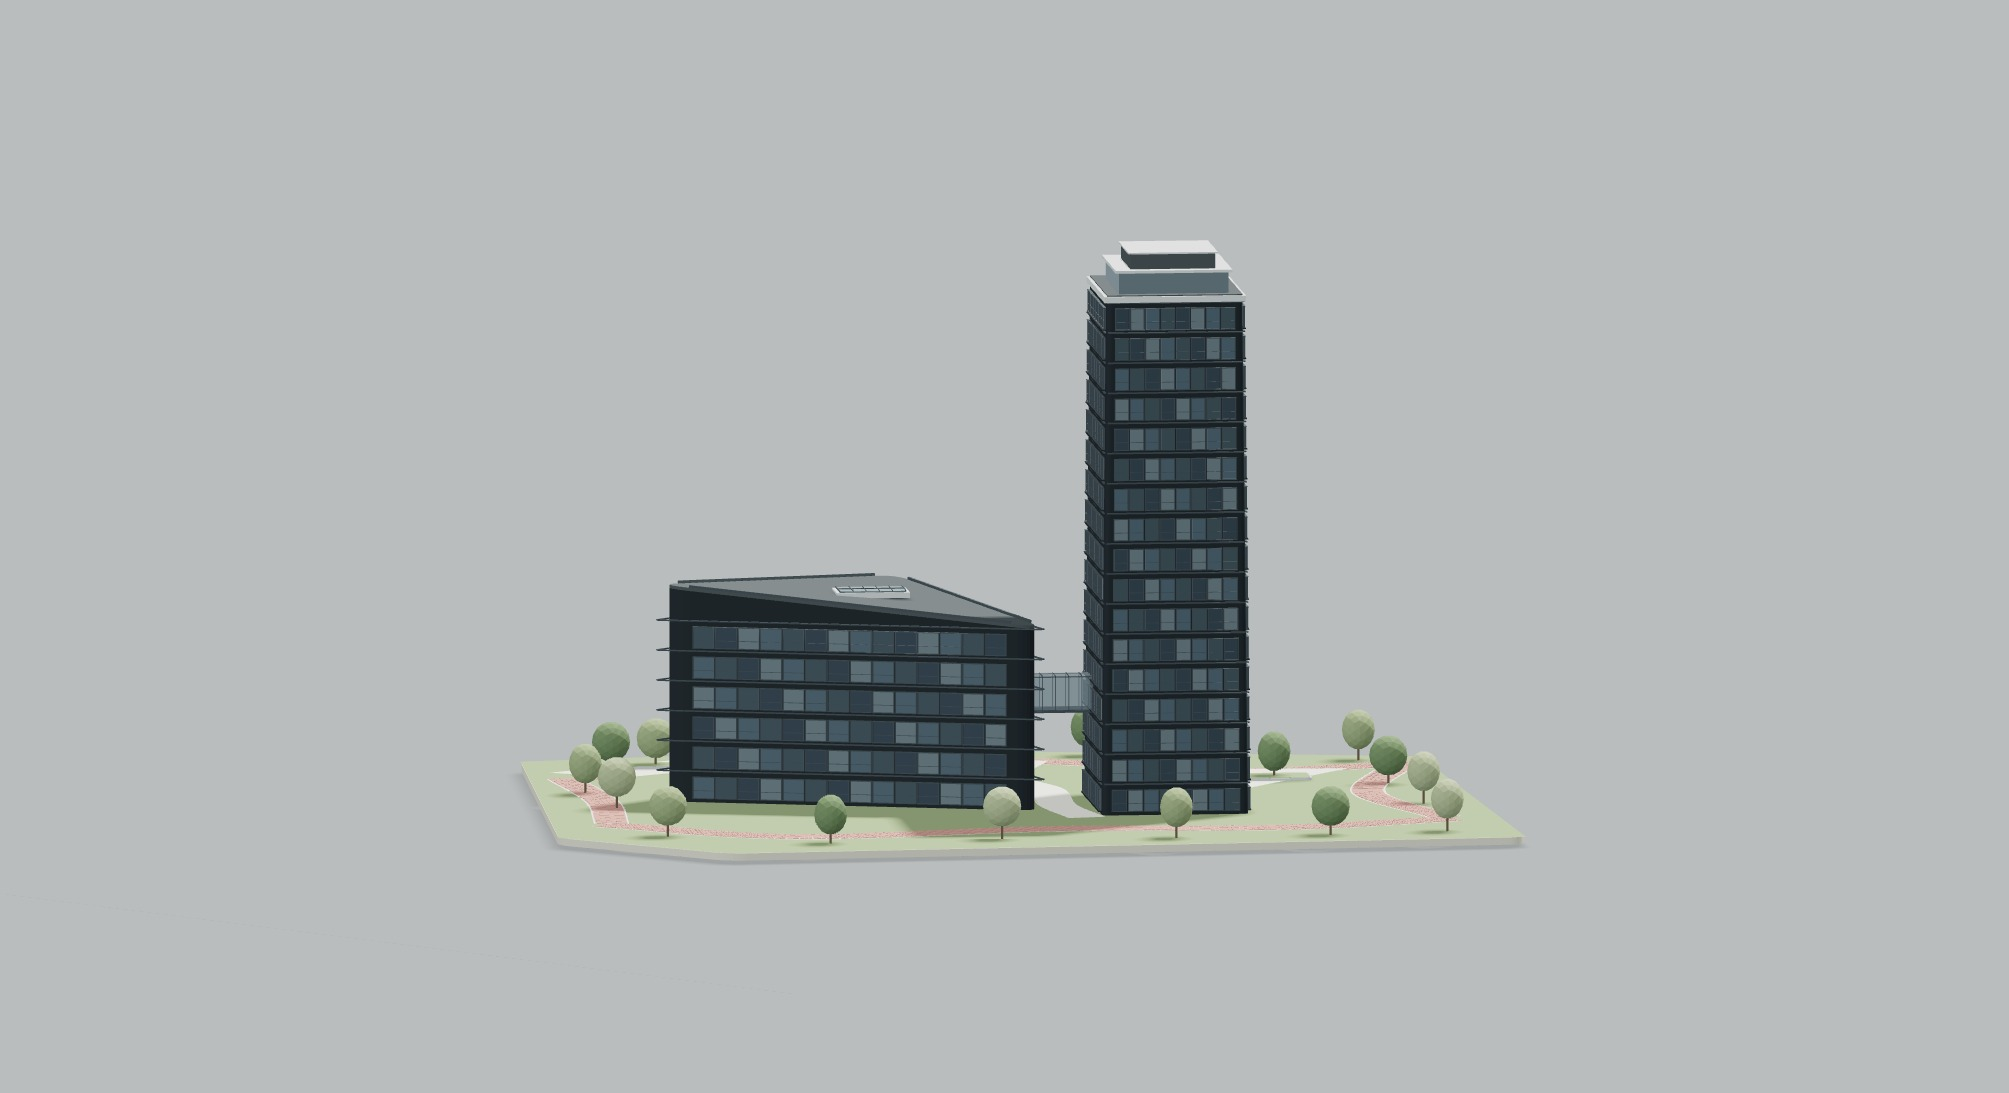
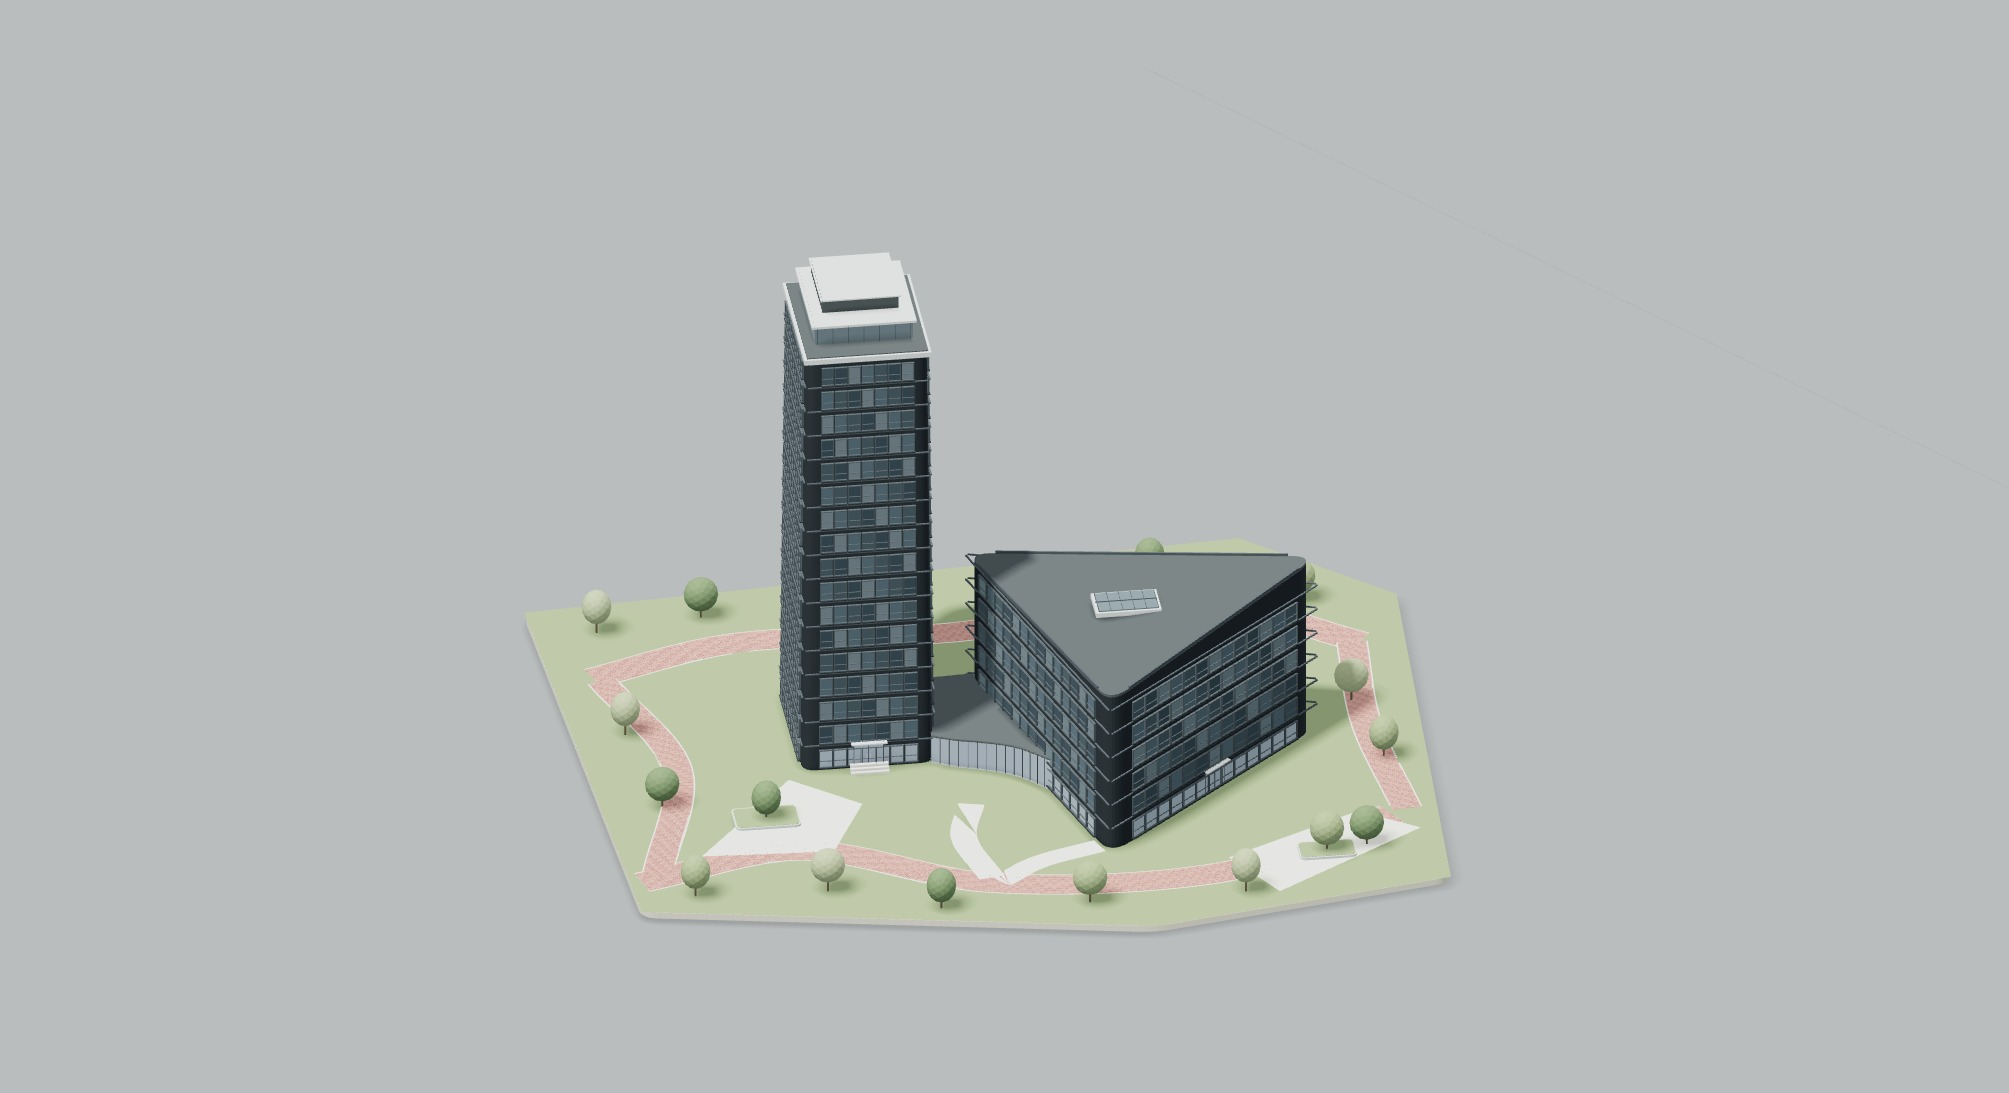
Correct connector to ground-level glazed volume from user photos

Changed region(s): [[0.2778, 0.2177, 0.7407, 0.8399]]

diff --git a/assets/ryabinovaya-project.js b/assets/ryabinovaya-project.js
@@ -45,22 +45,32 @@
   const tower=[[-25,-17],[-9,-17],[-9,3],[-25,3]];
   const wedge=[[-3,-12],[38,1],[9,28]];
   const towerH=56.1,lowH=19.8,roofY=x=>lowH+.49+.09*(x+3);
-  volume(tower,.14,towerH,M.body,.7,0,false,true);
+  volume(tower,.14,towerH,M.body,1.8,0,false,true);
   volume(wedge,.14,lowH,M.body,3.5,.09);volume(wedge,lowH+.14,.35,M.roof,3.5,.09,true);
-  // Verified elevated glazed link: open passage below, no invented ground lobby/supports.
-  const bridge={x0:-9.35,x1:.75,z:-4,bottom:10.2,top:14.1,width:3.2};
-  const bridgeGlass=GranVisual.glass(mat(0x81939b,{transparent:true,opacity:.5,depthWrite:false,roughness:.24}));
-  const bx=(bridge.x0+bridge.x1)/2,bl=bridge.x1-bridge.x0,by=(bridge.bottom+bridge.top)/2;
-  box(M.frame,bx,bridge.bottom,-4,bl,.22,3.3,0,false);
-  box(bridgeGlass,bx,bridge.top,-4,bl,.10,3.2,0,false);
-  for(const side of [-1,1]){
-   const z=-4+side*1.6;box(bridgeGlass,bx,by,z,bl,3.7,.08,0,false);
-   for(let x=bridge.x0;x<=bridge.x1+.01;x+=bl/7)box(M.frame,x,by,z,.07,3.9,.15,0,false);
-   for(const y of [bridge.bottom+.17,bridge.top-.07])box(M.frame,bx,y,z,bl,.09,.16,0,false);
+  // Supplied photos supersede the earlier incorrect browser-agent description.
+  // A ground-level glazed connecting volume with a broad, gently sloped grey roof.
+  const bridgeGlass=GranVisual.glass(mat(0x9aa8b5,{roughness:.32,metalness:.08}));
+  const roofHeight=(x,z)=>3.6+.035*(x+9.3)+.01*(z+11);
+  const facadeCurve=new T.CatmullRomCurve3([[-9.35,3],[-6.6,4.5],[-3.7,5.6],[.2,7.6],[4.2,11.8]].map(([x,z])=>new T.Vector3(x,0,z)));
+  const front=facadeCurve.getPoints(40).map(p=>[p.x,p.z]);
+  const connectorPlan=[[-9.45,-11],[-2.4,-11],[4.2,11.8],...front.slice(0,-1).reverse()];
+  volume(connectorPlan,.10,.12,M.pave,.16);
+  const roofG=new T.ExtrudeGeometry(shape(connectorPlan,.16),{depth:.18,bevelEnabled:false,curveSegments:8});roofG.rotateX(-Math.PI/2);
+  const rp=roofG.attributes.position;for(let i=0;i<rp.count;i++)rp.setY(i,rp.getY(i)+roofHeight(rp.getX(i),rp.getZ(i)));rp.needsUpdate=true;roofG.computeVertexNormals();geo.push(roofG);
+  const connectorRoof=new T.Mesh(roofG,M.roof);connectorRoof.castShadow=connectorRoof.receiveShadow=true;vpm.add(connectorRoof);
+  function glazedWall(points){
+   for(let i=0;i<points.length-1;i++){
+    const a=points[i],b=points[i+1],dx=b[0]-a[0],dz=b[1]-a[1],L=Math.hypot(dx,dz),n=Math.max(1,Math.round(L/1.05)),angle=-Math.atan2(dz,dx);
+    for(let k=0;k<n;k++){const t=(k+.5)/n,x=a[0]+dx*t,z=a[1]+dz*t,h=roofHeight(x,z)-.34;box(bridgeGlass,x,.24+h/2,z,L/n-.055,h,.10,angle,false);}
+    for(let k=0;k<=n;k++){const t=k/n,x=a[0]+dx*t,z=a[1]+dz*t,h=roofHeight(x,z)-.22;box(M.frame,x,.22+h/2,z,.055,h,.18,angle,false);}
+    beam(M.roof,[a[0],roofHeight(...a)+.05,a[1]],[b[0],roofHeight(...b)+.05,b[1]],.21,.18);
+    beam(M.cap,[a[0],.23,a[1]],[b[0],.23,b[1]],.15,.18);
+   }
   }
-  for(let x=bridge.x0;x<=bridge.x1+.01;x+=bl/7)box(M.frame,x,bridge.top,-4,.07,.12,3.3,0,false);
-  // A paved passage remains open under the bridge; entrances belong to each volume.
-  ribbon([[-7,-20],[-5,-9],[-5,6],[-2,17],[-6,32]],4.2,M.pave,.2);
+  // Glazed bays follow the curved courtyard elevation; both ends enter the buildings.
+  glazedWall(facadeCurve.getSpacedPoints(14).map(p=>[p.x,p.z]));
+  glazedWall([[-9.45,-11],[-2.4,-11]]);
+  ribbon([[-6,14],[-8,22],[-6,32]],3.2,M.pave,.2);
   function entrance(x,z,angle){const nx=Math.sin(angle),nz=Math.cos(angle),tx=Math.cos(angle),tz=-Math.sin(angle);
    box(bridgeGlass,x,2.1,z,3.6,3,.10,angle,false);
    for(const side of [-1,0,1])box(M.frame,x+tx*side*1.8,2.1,z+tz*side*1.8,.07,3.15,.22,angle,false);
@@ -74,7 +84,7 @@
     for(let f=0;f<floors;f++)for(let j=0;j<n;j++){
      const t=(margin+(j+.5)*(L-2*margin)/n)/L;let cx=a[0]+dx*t,cz=a[1]+dz*t;const cy=y0+f*3.3+1.15,scale=points===tower?1-.07*cy/towerH:1,pitch=(L-2*margin)/n*scale,ww=pitch-.25,wh=2.25;
      if(points===tower){cx=(cx+17)*scale-17;cz=(cz+7)*scale-7;}
-     box(glass[(f*3+j+i)%glass.length],cx+nx*.08,cy,cz+nz*.08,ww,wh,.12,angle,false);
+     box(f===0?bridgeGlass:glass[(f*3+j+i)%glass.length],cx+nx*.08,cy,cz+nz*.08,ww,wh,.12,angle,false);
      // Physical aluminium jambs, recessed glass, projecting sill and transom.
      for(const side of [-1,1]){
       const sx=cx+dx/L*side*(ww/2+.04),sz=cz+dz/L*side*(ww/2+.04);
@@ -87,7 +97,7 @@
     for(let f=1;f<=floors;f++){const scale=points===tower?1-.07*(f*3.3)/towerH:1;box(M.frame,((a[0]+b[0])/2+17)*scale-17+nx*.12,f*3.3+.25,((a[1]+b[1])/2+7)*scale-7+nz*.12,L*scale-.3,.14,.2,angle,false);}
    });
   }
-  facade(tower,17,1.7,.6,.9);facade(wedge,6,2.4,.6,4);
+  facade(tower,17,1.7,.6,1.9);facade(wedge,6,2.4,.6,4);
   // Stepped light crown, parapets and the visible low-building roof feature.
   // Layered crown with glazing, rather than the previous solid white cap.
   box(M.cap,-17,towerH+.6,-7,15.5,.65,19.2);box(M.roof,-17,towerH+1,-7,14.8,.12,18.5,0,false);
@@ -108,7 +118,7 @@
   trees.forEach(([x,z],i)=>{box(M.trunk,x,1.1,z,.22,2.2,.22);foliage.push([x,3.2+(i%3)*.2,z,1.8+(i%2)*.3,2.2,1.8,0,true]);});
   function instances(G,m,list){const mesh=new T.InstancedMesh(G,m,list.length);list.forEach((a,i)=>{dummy.position.set(a[0],a[1],a[2]);dummy.rotation.set(0,a[6],0);dummy.scale.set(a[3],a[4],a[5]);dummy.updateMatrix();mesh.setMatrixAt(i,dummy.matrix);});mesh.castShadow=list.some(a=>a[7]);mesh.receiveShadow=true;vpm.add(mesh);}
   batches.forEach((list,m)=>instances(unit,m,list));leaf.forEach((m,i)=>instances(crown,m,foliage.filter((_,j)=>j%3===i)));
-  root.userData.geo=geo;root.userData.materials=materials;root.userData.reference={name:'Рябиновая',estimated:true,source:'guest view, 1/3 models loaded',mainMasses:2,wedge:true,heightRatio:towerH/lowH,bridge:{bottom:bridge.bottom,top:bridge.top,columns:0},slopedRoof:true,plantedIslands:2,entranceStairs:true,paverGeometry:true};
+  root.userData.geo=geo;root.userData.materials=materials;root.userData.reference={name:'Рябиновая',estimated:true,source:'user supplied photos for connector; other dimensions estimated',mainMasses:2,wedge:true,heightRatio:towerH/lowH,connector:{type:'ground-glazed',base:.1,roofMin:3.6,roofMax:4.3,curvedFront:true,roofOpaque:true},slopedRoof:true,plantedIslands:2,entranceStairs:true,paverGeometry:true};
   return{root,g,radius:Math.max(Math.hypot(105,92)/2,(towerH+5.6)*.95),maxH:towerH+5.6};
  }
  global.GranRyabinovaya={build};

diff --git a/review/ryabinovaya-correction/README.md b/review/ryabinovaya-correction/README.md
@@ -1,21 +1,15 @@
-# Уточнение «Рябиновой»: переход, кровли, благоустройство
+# Наземный переход по скриншотам пользователя
 
-Повторно осмотрена только исходная гостевая ссылка пользователя через TinyFish, с приближением и сменой ракурсов. Сетевые файлы и исходная геометрия не получены. Отчёт осмотра: https://agent.tinyfish.ai/runs/b26a3db4-01a8-4362-8ddd-c098c6407a4f . Сам отчёт не заменяет размерные чертежи и не подтверждает точность реконструкции.
+Два предоставленных пользователем изображения заменяют прежний недостоверный текстовый отчёт браузерного агента. Переход — низкий наземный остеклённый объём, а не подвесной мост. Прежнее утверждение о свободном проходе под ним было ошибкой и отменено.
 
-Выявленная ошибка предыдущей версии: наземный соединительный вестибюль. По повторному осмотру связь приподнята над землёй, остеклена и имеет открытое пространство снизу, без видимых опор. В новой версии наземный объём удалён; выполнены настил, прозрачные боковые и верхние панели, переплёты, примыкания к корпусам. Высотное положение в районе 3–5-го этажа — оценка по виду, не измерение. В коде принят просвет 10,2 условной единицы.
+Исправлено по изображениям: стены остекления доходят до земли; широкая глухая серая кровля имеет сложный план и небольшой уклон, примыкает к обоим корпусам; со стороны двора фасад плавно меняет направление, оконные стойки идут частым вертикальным ритмом. Добавлены торцевое остекление, цоколь, кромка кровли, физические рамы. Рядом с переходом больше нет сквозной дорожки через закрытый объём. Нижний этаж фасадов выполнен светлым остеклением, скругления башни уточнены.
 
-Уточнены: лёгкое сужение башни, многослойная корона с остеклением, наклонная треугольная кровля низкого корпуса вместо плоской. Оценка этажности после повторного осмотра 15–18 и 5–7; рабочая реконструкция использует 17 и 6. Уменьшение числа этажных рядов вызвано оценкой пропорций, не упрощением окон: объёмные рамы/откосы/переплёты сохранены.
+Сохранены подробные фасадные рамы, откосы, переплёты, мощение, ступени и посадочные островки. Общая геометрия — 132 459 треугольников, без децимации/LOD. Другие проекты и калькулятор не изменены.
 
-Ландшафт: расширены мощёные входные участки и проход под переходом; добавлены отдельные прямоугольные элементы мощения, ступени, низкие борта посадочных островков и внутренняя растительность. Сохранены криволинейные красноватые дорожки. Точные координаты островков, ступеней и деревьев не подтверждены — это интерпретация видимых признаков, а не установленный генплан. Парковка и подземные сооружения не выдумываются по неопределённым краям модели.
+![Наземный переход, реальный WebGL-кадр](bridge.png)
 
-Итоговая детализация: 134 205 треугольников, 41 mesh-объект. Инстансы сохраняют детали; децимация/LOD не применялись. Тесты проверяют геометрию, просвет под переходом, отсутствие опор, наклонную кровлю, мощение и посадочные островки; прежние проверки сайта проходят.
 
-До согласования эта версия не публикуется. Максимальное визуальное соответствие остаётся ограничено отсутствием исходных размеров и непосредственно доступных референсных кадров; точность «1 в 1» не заявляется.
 
-## Реальные кадры Three.js
+Фото подтверждают тип, видимые очертания, остекление и примыкания перехода, но не содержат размеров или полного плана. Точные ширина/высота, скрытые грани и координаты ландшафта остаются оценочными. Точность 1 в 1 не подтверждена. Старый подвесной вариант показан только в истории Git, не является актуальным решением.
 
-![Исправленный переход](bridge.png)
-
-![План благоустройства](landscape.png)
-
-Кадры получены из WebGL-буфера того же Three.js в Chromium ANGLE SwiftShader. Это проверка видимости и геометрии новой версии, а не подтверждение точного совпадения со всеми частями исходника.
+Проверки: npm test, git diff --check; Raycaster проверяет настоящую низкую кровлю над интерьером и остекление, закрывающее фасад до земли. Новый вариант просмотрен в реальном WebGL Chromium ANGLE SwiftShader; кадр выше получен из того же Three.js. Публикация фиксируется в PR. Пользователь явно разрешил немедленное внедрение по новым изображениям.
